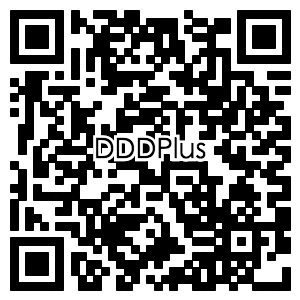
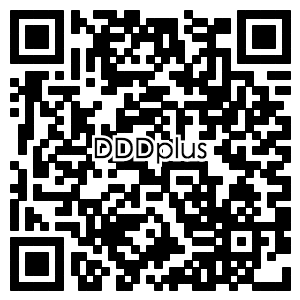
DDDplus, not DDDPlus

Changed region(s): [[0.3, 0.45, 0.69, 0.57]]

diff --git a/doc/development.md b/doc/development.md
@@ -1,0 +1,174 @@
+# 业务开发
+
+如何更好的构建软件？
+
+致力于前中台解耦、沉淀业务资产、赋能研发编写出知识化的业务系统，使得我们的业务系统具有客户视角、老板视角、产品视角、研发视角、测试视角和业务前台视角。
+
+扩展点对入参、出参、异常等没有规定，但在具体项目里也应充分考虑当前业务抽象度和稳定性。如果扩展点有多个方法，那么就前台中台的耦合性就增加了，一个方法的接口耦合度低。
+
+业务扩展点，建立了前中台的合作机制，同时中台内部也用于解决多场景下相同业务语义不同执行逻辑的用途。
+扩展点的合理性，是需要进行深度业务分析、业务抽象的，它要稳定，并预留扩展性。
+
+产生背景
+它的产生，是以如下的假想目标，并针对legacy code进行梳理和重构中产生和发展壮大起来的：
+
+如果ECLP的仓配一体订单中心进行彻底重构，该如何进行？
+
+投入3个人搞半年能把ECLP业务切走40%吗，一年能切走70%吗，能保证线上零事故吗
+如何让代码结构化，知识化，如何让代码低成本地反映业务，如何让代码成为产品和研发的共同语言；如何让坏味道代码无污染无公害
+如何沉淀清晰可复用的业务资产，沉淀到哪里，资产长什么样；哪些不需要沉淀
+系统是否支持我以不同粒度不同视角从不同维度低成本地梳理出业务
+如何快速响应千奇百怪的个性化需求，同时保持自身不腐化
+如何让研发从泥潭中走出来，看到光明，重塑业务研发模式；如何满足不同研发人员的职业规划，从不同维度成长
+如何让研发拿到需求立刻就知道代码写在哪里，不各显神通地造轮子造概念
+
+
+如何让订单中心支持前台、中台协同开发，破除单点，各司其职，人员解耦，开发解耦
+如何利用框架来赋能业务开发，让我们的业务系统代码像个中台的样子，中台的代码应该什么样子
+
+中台是业务的入口和驱动者，在业务执行过程中，根据上下文数据自动识别出业务扩展点(接口)的具体实现者，并把控制权交给相应的前台；扩展点方法执行完成后，回到中台继续执行。
+
+考虑到京东物流中台的起步阶段现状，做不到一上来就业务本质思考并合理准确地抽取出业务扩展点，中台架构与传统TOGAF架构方法最大的区别是由于业务的不确定性它只能自下而上，通过归纳总结进行抽象。
+因此，业务扩展点的粒度在具体实施过程中，必然要经过开始粗、逐渐细的过程。
+粗粒度的扩展点，可以让中台快速响应前台需求，但会造成业务逻辑重心倾斜到前台：中台除了留下了统一入口、领域模型、领域步骤、领域规范、物理模型、数据外，业务沉淀少，即，有了强大的躯干，但肉少，肉长在了前台身上。
+理想的合理的扩展点，是细粒度的，肉留在中台，前台可以复用中台能力，前台只起到个性化需求实现作用，即扩展(补充)中台能力。
+
+中台做什么
+中台是业务的入口和驱动者，中台提供
+
+数据的存储
+业务模型，业务活动和步骤的抽象
+业务开发规范
+统一的业务字典
+让前台利用中台能力可以自行发展的扩展机制，中台不阻塞前台业务
+业务治理，技术治理，尤其考虑到多前台冲突、竞争场景
+把握整体和未来趋势
+
+
+前台做什么
+
+前台需要理解中台输出的domain model spec
+根据领域模型识别出属于自己的前台业务
+根据中台的扩展机制和开发规范进行独立开发
+可以对中台提供的领域步骤进行编排
+可以对中台的扩展点进行编排，即有些扩展机制要跳过
+如果使用了扩展属性机制，需要实现扩展属性的接口，实现个性化业务逻辑
+如果有外部依赖，例如引入了另外一个JSF接口或者自己使用的redis，需要配置spring.xml，并提交给中台审批后被import
+如果有自己的properties文件，需要自行编写，提交给中台审批后使用
+前台可以自行定义错误码，也可以覆盖中台的错误消息话术
+
+
+业务演化
+
+扩展点粒度由粗变细
+扩展点定义变化
+
+扩展点的入参、出参本身是可扩展的
+业务语义的变化，可以以新替旧
+
+
+业务逻辑由前台下沉回中台
+
+代码的改动小，甚至不需要改，风险低，不需要做切流量验证
+
+
+个性化数据由前台下沉回中台
+
+例如，中台存100个字段，前台A在自己的系统上保存5个字段，后来发现这5个字段其他前台也需要，是通用的
+数据是无法低成本下沉回中台的
+推荐使用中台提供的扩展属性机制，个性化字段前台尽量让中台满足，不自己搞
+如果是属于客户业务前置类字段场景，那是完整的数据库设计，前台自行设计实现，不属于个性化字段范畴
+
+例如，客户希望在下单前走内部的审批流程，这个审批流程希望京东给他实现
+这个审批流程会涉及N个表，是自治的解决方案，前台自行解决
+
+
+
+
+最开始业务抽象认为是中台的逻辑，后来发现应该是属于前台逻辑
+
+
+Q：“晚饭吃了啥？”。  A：“我用勺子一口一口地吃了鸡生下的蛋和番茄再加上油一起炒的菜。”
+
+
+GoF Design Pattern、EIP、Refactoring、P of EAA，它们的理念是通过技术手段解决技术问题，并没有根本上解决业务的问题
+
+
+由于DDD不是一套框架，而是一种架构思想，所以在代码层面缺乏了足够的约束，导致DDD在实际应用中上手门槛很高，甚至可以说绝大部分人都对它的理解有所偏差。
+绝大部分人在实际应用当中仅仅用到了DDD的建模的思想，而其对于整个架构体系的思想无法落地。
+我们需要一套合理的代码结构、分层、框架和约束，来降低DDD的实践门槛，提升代码质量、可测试性、安全性、健壮性：cp-core的DDD框架。
+
+领域知识
+
+- 分层重构
+- 架构重构
+- 代码重构
+- 模式重构
+- 数据库重构
+- 模块重构
+- 领域模型重构
+
+4个不同的重构级别：
+架构重构。在不改变业务逻辑的情况下，根据单一职责和依赖倒置原则的思想：对系统进行模块拆分与合并，以明确职责降低耦合度；对包进行重新规划，划分包之间的边界，减少代码间的耦合。
+模型重构。在包含测试的情况下，通过识别和发现模型的行为，将行为聚合到模型中：根据方法名称、参数、返回判定内聚到模型中；从流程梳理是否符合业务场景 。
+模式重构。对于特定代码坏味道产生的问题，通过结合架构模式、设计模式来提升可读性。如：使用工厂模式统一管理对象的创建；使用策略模式降低复杂度。
+代码重构。对于一些小的代码坏味道，可以通过 IDE 重构来快速改善即有代码，而不会影响到业务功能。如：复杂条件语句的提取；使用参数对象重构参数过多。
+
+
+代码债务：代码风格不一致、静态分析的违规
+设计债务：设计坏味道、违反设计原则
+测试债务：测试不充分、测试设计不合理
+文档债务：缺少文档、文档糟糕及文档过期
+
+
+C4 代表上下文（Context）、容器（Container）、组件（Component）和代码（Code）——一系列分层的图表，可以用这些图表来描述不同缩放级别的软件架构，每种图表都适用于不同的受众。
+换句话来说，C4 模型适用于软件开发团队的各个 level 的成员——架构师、Tech Lead、开发人员、新成员等。也因此，C4 可以直接反应系统的架构原则 ，并能直观地帮助项目的新成员熟悉项目。
+
+
+带你成为顶尖开发者
+
+
+技术导向架构模式 MVC
+
+
+当我们谈论 service 的时候，我们谈论的是同一个 service 吗？
+
+当我们谈论 model 的时候，我们谈论的是同一种 model 吗？
+
+
+软件开发总成本 = 开发成本 + 维护成本；软件维护成本 = 理解成本 + 修改成本 + 测试成本 + 部署成本 Kent Beck
+
+在需求里面我们往往把约束，完整性，校验，分支流等都可以算到业务规则
+
+awesome ddd, java
+https://xie.infoq.cn/
+https://www.jianshu.com/
+
+能力建设和架构完善
+如何应对异常复杂的积木业务逻辑和不可预知的业务变化，构建业务和底层技术基础实施的完全解耦的系统，一直是我们面对的巨大挑战
+也是时候从更高视角来看清问题和源头，思考一种能应对和控制业务复杂度、具备强扩展性和弹性的解决方案。
+
+DDD战略设计到战术设计的方法论和实践。让软件研发所有参与者围绕着一个统一和一致的领域模型建模和设计，分析模型和设计模型不再割裂，并引出了以领域为核心的分层架构，有效地分离业务和技术复杂度，使得领域层的代码和领域模型保持高度一致。在战术上提供了诸多元模式帮助构建职责清晰、内聚和高维护性和可扩展性的代码。
+
+引起软件系统复杂度的主要因素是需求，但实现也是不可忽视的因素。我们分析系统的复杂度时就可以从业务复杂度和技术复杂度这两个维度出发。
+
+DDD的核心思想就是要避免业务逻辑的复杂度与技术实现的复杂度混淆在一起，确定业务逻辑与技术实现的边界，从而隔离各自的复杂度，业务逻辑并不关心技术是如何实现的。
+无论采用何种技术，只要业务需求不变，业务规则就不会变化。理想状态下，应该保证业务逻辑与技术实现是正交的。DDD通过分层架构与六边形架构确保业务逻辑与技术实现的隔离。
+
+“分层架构”遵循了“关注点分离”原则，将属于业务逻辑的关注点放到领域层（Domain Layer）中，而将支撑业务逻辑的技术实现放到基础设施层（Infrastructure Layer）中。同时，领域驱动设计又颇具创见的引入了应用层（Application Layer）。应用层扮演了双重角色。一方面它作为业务逻辑的外观（Facade），暴露了能够体现业务用例的应用服务接口；另一方面它又是业务逻辑与技术实现的粘合剂，实现二者之间的协作。
+
+
+不确定性和变化是这个时代的主旋律，业务需要快速上线，并根据用户的反馈不停地调整和升级，有生命力的业务主动寻求变化，不变则亡是很多行业目前的共识，企业应对变化的响应力成了成败的关键。
+
+
+DDD驱动我们把每一个限界上下文设计成一个个“自治”的单元，自治要满足四个特点：
+最小完备是实现自治的基本条件，指的是自治单元履行的职责是根据业务价值的完整性和最小功能集进行设计的，这让自治单元无需求助其他自治单元获得信息，避免了不必要的依赖关系，同时也避免了不必要和不合适的职责添加到该自治单元上。
+自我履行意味着由自治单元自身决定要做什么。是否应该履行某职责，由限界上下文拥有的信息来决定。站在自治单元的角度去思考：“如果我拥有了这些信息，我究竟应该履行哪些职责？”这些职责属于当前上下文的活动范围，一旦超出，就该毫不犹豫地将不属于该范围的请求转交给别的上下文。自我履行其实意味着对知识的掌握，为避免风险，你要履行的职责一定是你掌握的知识范畴之内。
+稳定空间指的是减少外界变化对限界上下文内部的影响。稳定空间符合开放封闭原则（OCP），即对修改是封闭的，对扩展是开放的，该原则其实体现了一个单元的封闭空间与开放空间。封闭空间体现为对细节的封装与隐藏，开放空间体现为对共性特征的抽象与统一，二者共同确保了整个空间的稳定。
+独立进化指的是减少限界上下文的变化对外界的影响。用限界上下文的上下游关系来阐释，则稳定空间寓意下游限界上下文，无论上游怎么变，我自岿然不动。要做到独立进化，就必须保证对外公开接口的稳定性，因为这些接口被众多消费者依赖和调用，一旦发生变更，就会牵一发而动全身。一个独立进化的限界上下文，需要一个稳定、设计良好的接口设计，并在版本上考虑了兼容与演化。
+
+
+传统的三层架构分而治之、降低耦合、提高复用，但存在弊端，业务逻辑在不同层泄露，导致替换某一层变得困难、难以对核心逻辑完整测试。
+
+
+Domain Driven Design (DDD) is about mapping business domain concepts into software artifacts.
